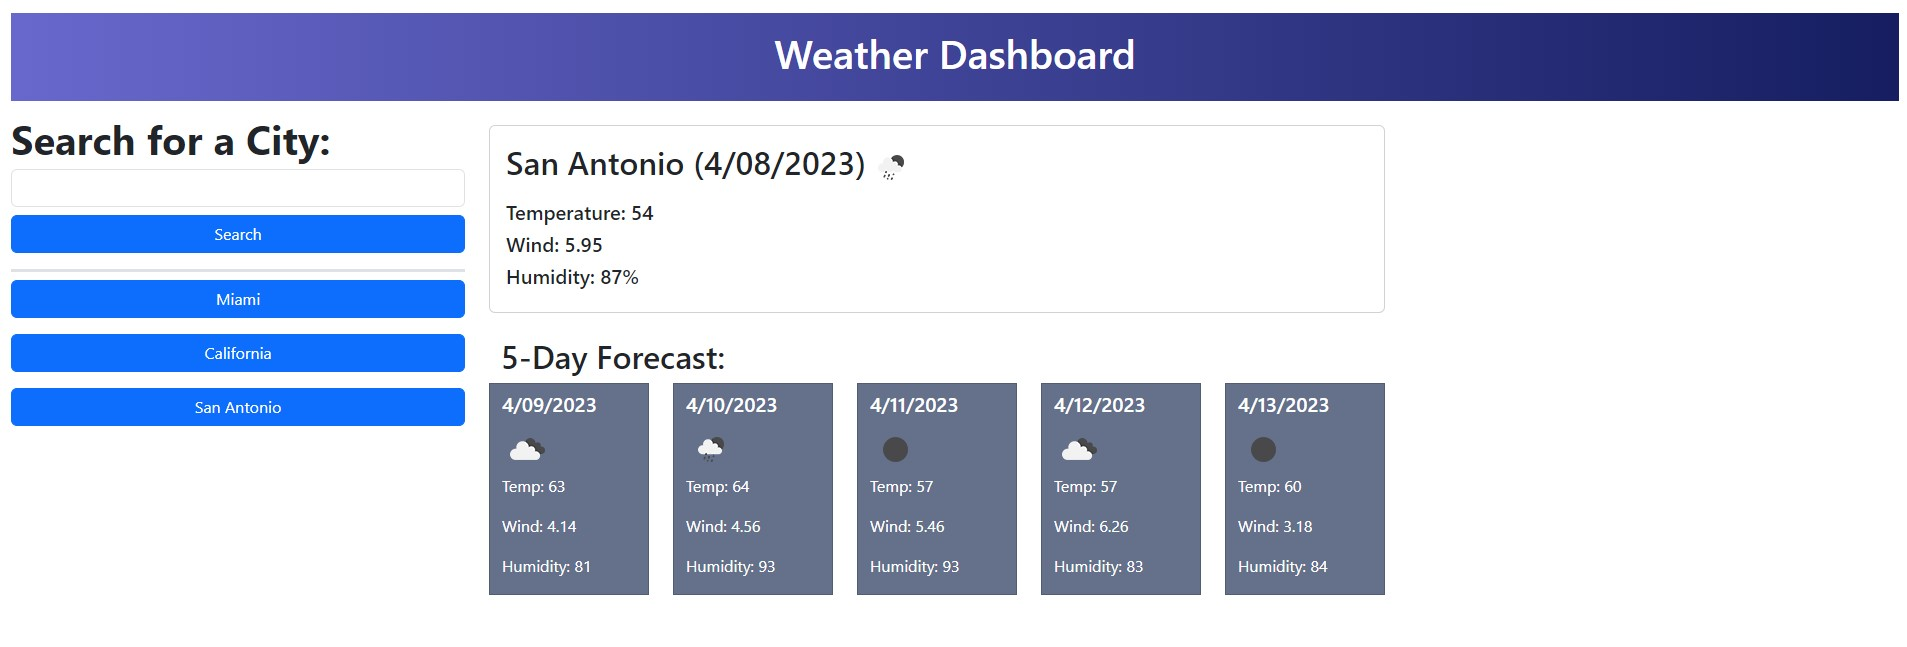
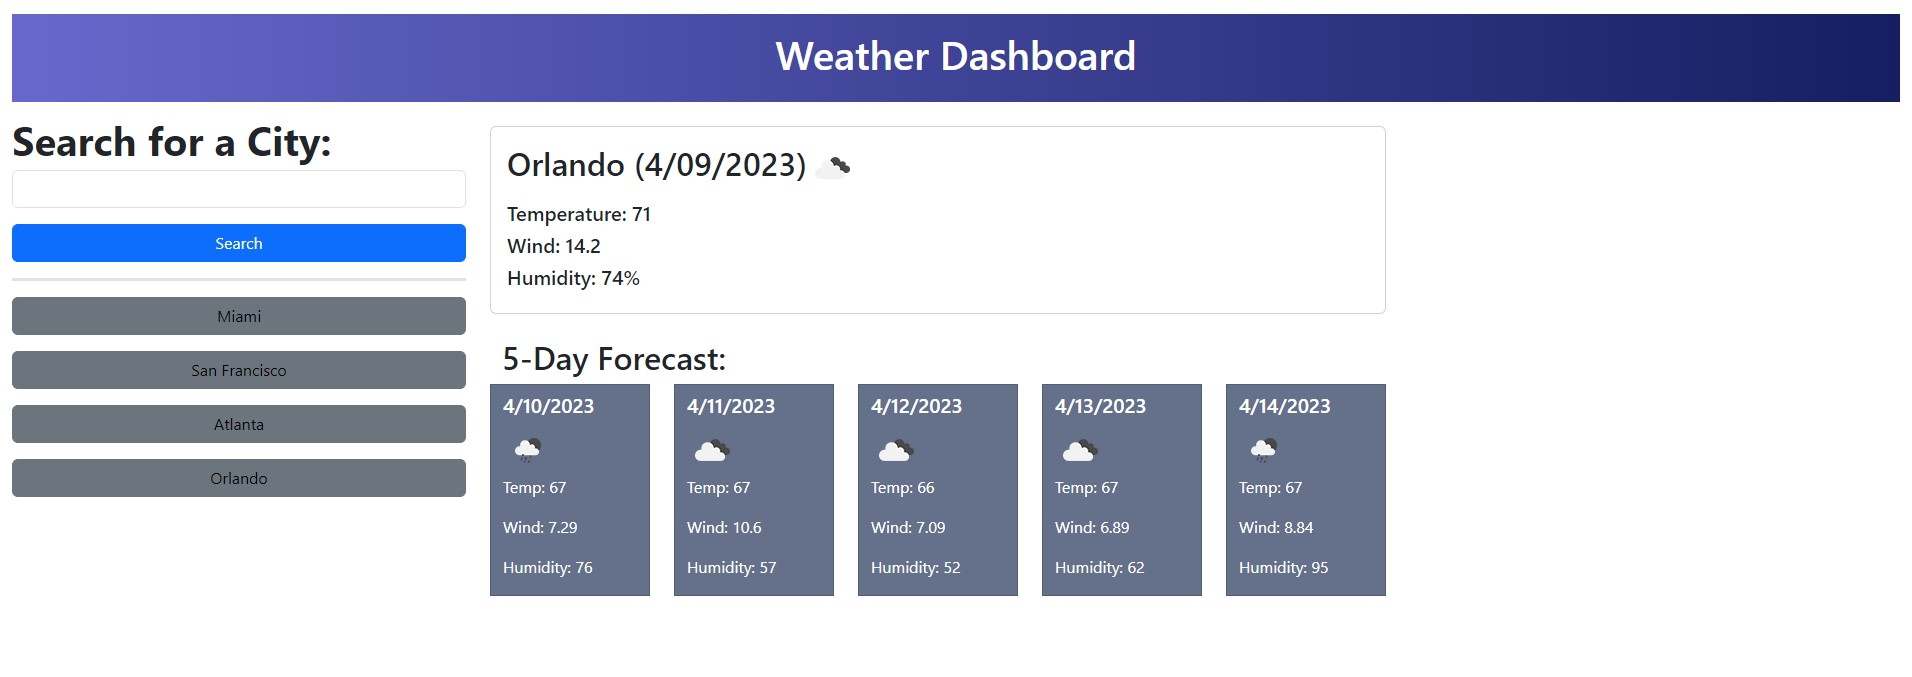
aligned the history buttons a little better and updated the README with a picture of the new history button changes.

diff --git a/index.html b/index.html
@@ -31,7 +31,7 @@
               >
               <input type="text" class="form-control mb-2" id="city-input" />
             </section>
-            <button type="submit" class="btn btn-primary w-100">Search</button>
+            <button type="submit" class="btn btn-primary mt-2 w-100">Search</button>
           </form>
           <div class="mt-3">
             <section

diff --git a/script.js b/script.js
@@ -37,7 +37,7 @@ $(document).ready(function () {
 
     localStorageData.forEach((data) => {
       const button = $("<button>")
-        .addClass("btn-history btn btn-primary mb-3")
+        .addClass("btn-history btn text-black btn-secondary font-weight-bold mb-2 mt-2")
         .text(data)
         .attr("data-city", data);
 

diff --git a/assets/css/weather.css b/assets/css/weather.css
@@ -10,3 +10,7 @@
 .top-temp-card{
   max-width: 920px;
 }
+
+button .bg-light{
+  background-color: lightslategray;
+}
